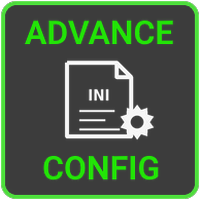
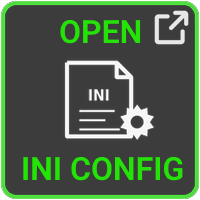
fix: perf log every 60sec and improve some common ui nifs

Changed region(s): [[0.12, 0.03, 0.96, 0.24], [0.09, 0.78, 0.93, 0.9]]

diff --git a/src/common/PerfMonitor.h b/src/common/PerfMonitor.h
@@ -78,9 +78,9 @@ namespace f4cf::common
 
         /**
          * @param name        label used in the log line.
-         * @param logInterval how often a summary is emitted (defaults to every 30 seconds).
+         * @param logInterval how often a summary is emitted (defaults to every 60 seconds).
          */
-        explicit PerfMonitor(std::string name, std::chrono::milliseconds logInterval = std::chrono::seconds(30));
+        explicit PerfMonitor(std::string name, std::chrono::milliseconds logInterval = std::chrono::seconds(60));
 
         /**
          * Create an RAII timer that records its scope duration into this monitor on destruction.

diff --git a/src/vrui/UIUtils.cpp b/src/vrui/UIUtils.cpp
@@ -30,7 +30,7 @@ namespace f4cf::vrui
 {
     std::string UIUtils::getDebugSphereNifName()
     {
-        return "debug-sphere.nif";
+        return "ui-common\\debug-sphere.nif";
     }
 
     std::string UIUtils::getEmptyButtonFrameNifName()
